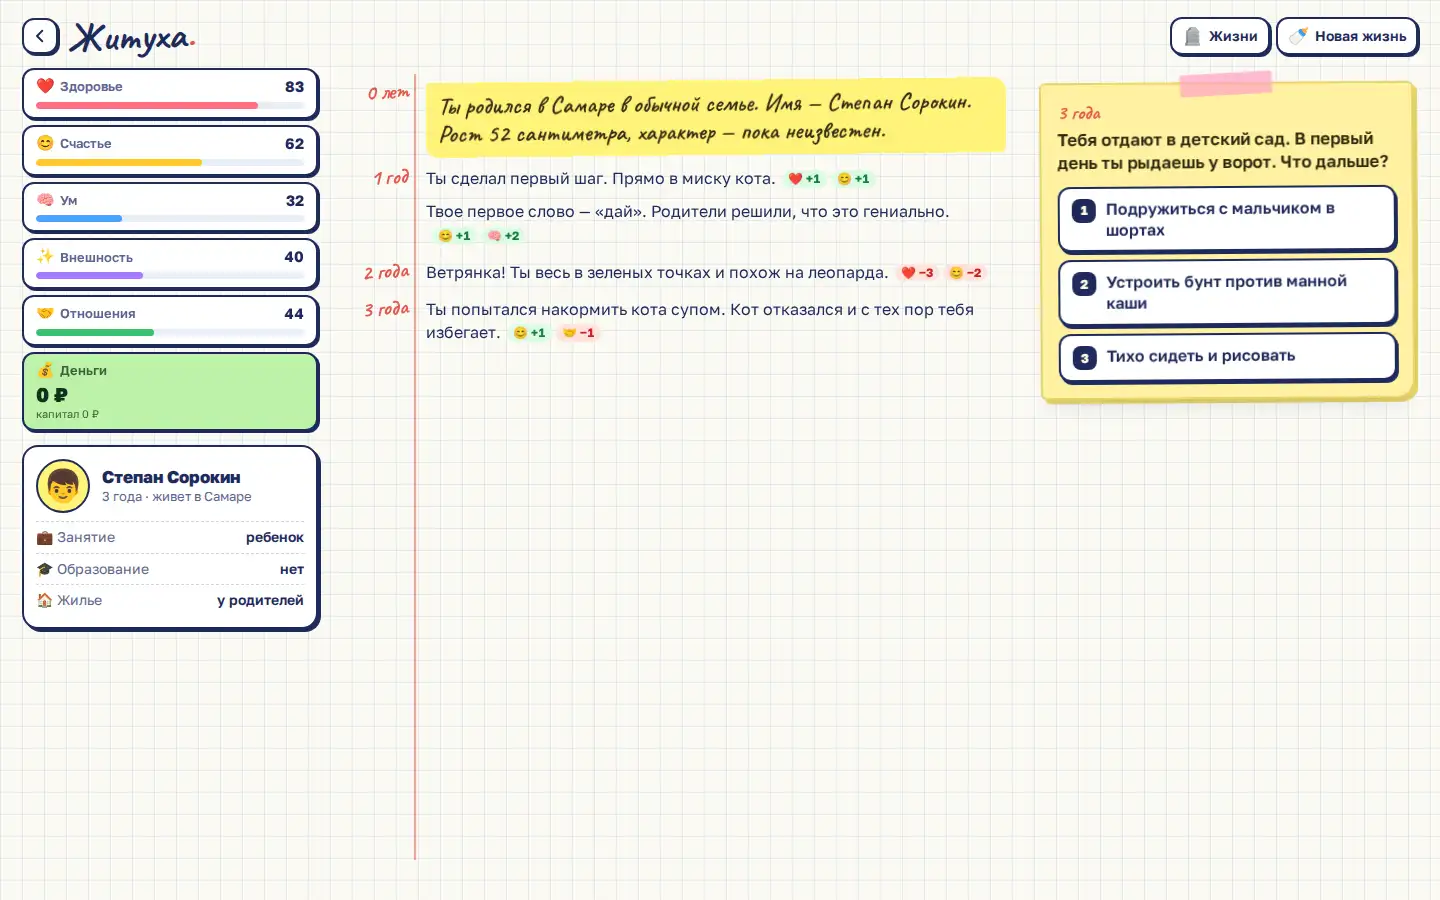
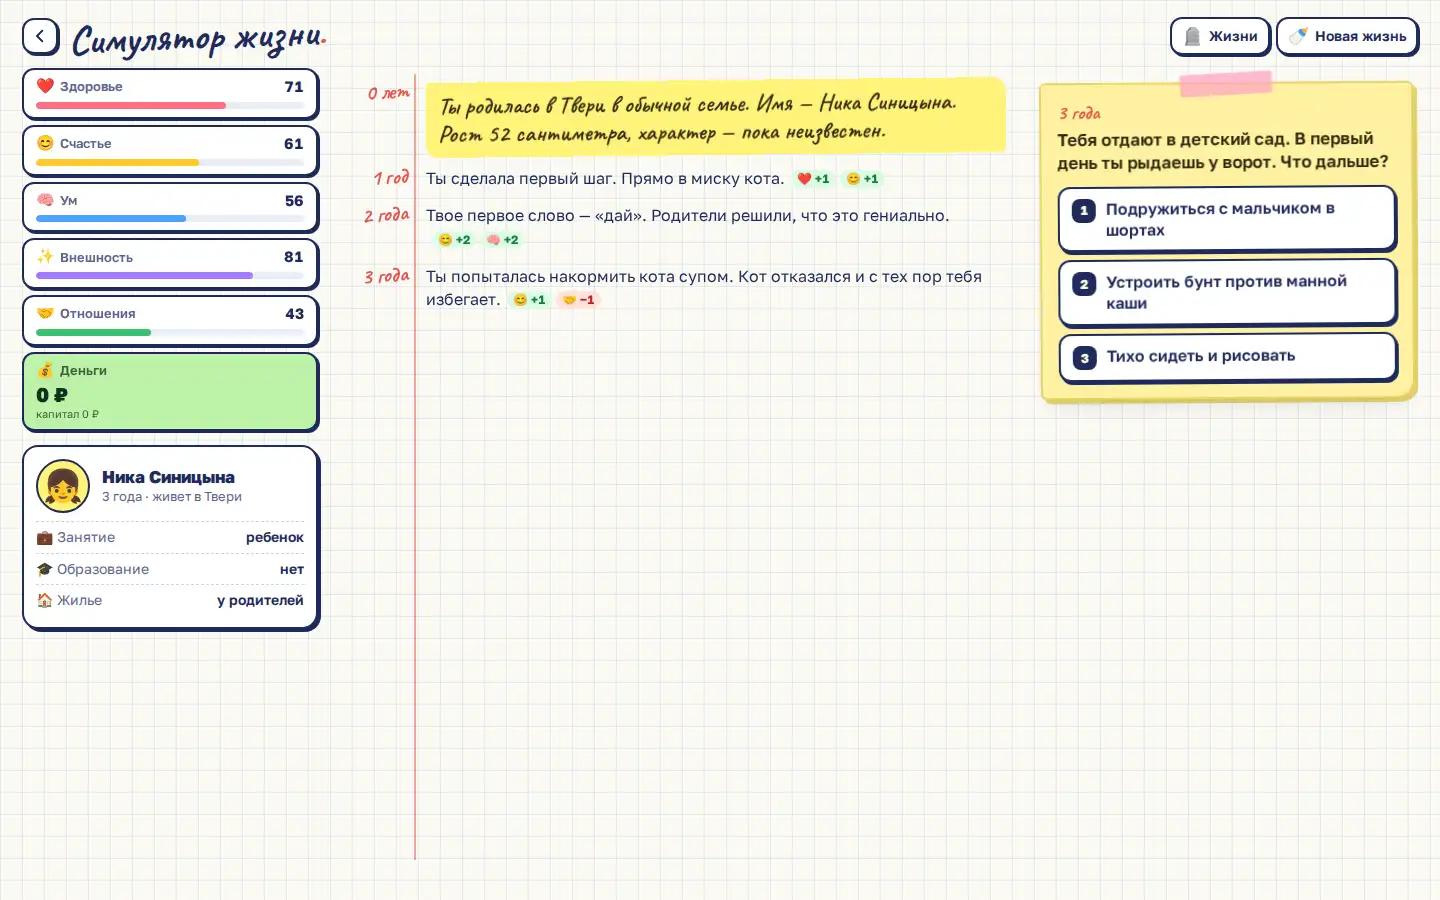
Rename kanban, invoice and life demos, new screenshots

diff --git a/demos/life/script.js b/demos/life/script.js
@@ -85,7 +85,7 @@ var ZH_DATA = {
     { id: "car", cat: "money", e: "🚗", t: "Машина", a: [18, 90], special: "car" },
     { id: "repay", cat: "money", e: "🧹", t: "Погасить кредиты", a: [18, 120], if: { debt: [1, 1e15], cash: [1000, 1e15] }, special: "repay" },
     { id: "lottery", cat: "money", e: "🎟", t: "Купить лотерейный билет", a: [18, 120], cost: 300, special: "lottery" },
-    { id: "crypto", cat: "money", e: "🪙", t: "Вложиться в крипту", a: [18, 80], if: { cash: [50000, 1e15], no: "crypto" }, special: "crypto" },
+    { id: "crypto", cat: "money", e: "🪙", t: "Купить криптовалюту", a: [18, 80], if: { cash: [50000, 1e15], no: "crypto" }, special: "crypto" },
 
     { id: "meet", cat: "love", e: "💘", t: "Знакомиться", a: [16, 95], if: { partner: "none" }, special: "meet" },
     { id: "date", cat: "love", e: "🌹", t: "Сходить на свидание", a: [16, 120], if: { partner: "any" }, cost: 5000, eff: { love: 10, happy: 4, cash: -5000 }, r: ["Кино, кафе, прогулка по набережной. {p} смеял<ся|ась> над твоими шутками. Даже над той про пингвина.", "{p} затащил<|а> тебя в караоке. Соседний столик аплодировал стоя, хотя, возможно, просто уходил."] },
@@ -1863,7 +1863,7 @@ if (typeof module !== "undefined") module.exports = ZH;
       h += row("👛", "Наличные", M(p.cash));
       if (p.dep) h += row("🏦", "Вклад", M(p.dep));
       if (p.stocks) h += row("📊", "Акции", M(p.stocks));
-      if (p.crypto) h += row("🪙", "Крипта", M(p.crypto));
+      if (p.crypto) h += row("🪙", "Криптовалюта", M(p.crypto));
       if (p.biz) h += row("🏪", "Бизнес", p.biz);
       if (p.homeValue) h += row("🏠", "Жилье", M(p.homeValue));
       p.loans.forEach(function (l) { h += '<div class="zh-row is-debt"><span class="zh-row__k">🧾 ' + esc(l.t) + " · " + Math.round(l.rate * 100) + '%</span><span class="zh-row__v">−' + esc(M(l.bal)) + "</span></div>"; });

diff --git a/demos/invoice/frame.html b/demos/invoice/frame.html
@@ -4,7 +4,7 @@
     <a class="inv__back" href="/docs/v2/ru/guides/demo/" title="К каталогу демо" aria-label="К каталогу демо"><i class="ph ph-arrow-left" aria-hidden="true"></i></a>
     <div class="inv__brand">
       <svg class="inv__mark" viewBox="0 0 32 32" aria-hidden="true"><rect x="3" y="3" width="26" height="26" rx="7" fill="currentColor"/><path d="M10 11h12M10 16h12M10 21h7" stroke="var(--inv-paper)" stroke-width="2.4" stroke-linecap="round"/><circle cx="22.5" cy="21.5" r="3.2" fill="var(--inv-accent)"/></svg>
-      <span class="inv__brand-name">Квиток</span>
+      <span class="inv__brand-name">Генератор счетов</span>
     </div>
     <button type="button" class="inv__btn inv__btn--ghost inv__only-narrow" data-act="drawer" title="Мои счета">
       <i class="ph ph-files inv__ico" aria-hidden="true"></i><span class="inv__btn-text">Счета</span><span class="inv__badge" data-count>0</span>
@@ -219,7 +219,7 @@
   <div class="inv__intro inv__intro--open" data-intro role="dialog" aria-modal="true" aria-labelledby="inv-intro-title">
     <div class="inv__intro-card">
       <svg class="inv__intro-mark" viewBox="0 0 32 32" aria-hidden="true"><rect x="3" y="3" width="26" height="26" rx="7" fill="currentColor"/><path d="M10 11h12M10 16h12M10 21h7" stroke="var(--inv-paper)" stroke-width="2.4" stroke-linecap="round"/><circle cx="22.5" cy="21.5" r="3.2" fill="var(--inv-accent)"/></svg>
-      <h1 class="inv__intro-title" id="inv-intro-title" data-op-bind='{"text":"page.title"}'>Квиток</h1>
+      <h1 class="inv__intro-title" id="inv-intro-title" data-op-bind='{"text":"page.title"}'>Генератор счетов</h1>
       <div class="inv__intro-text"><!-- onpress/content /--></div>
       <div class="inv__intro-acts">
         <a class="inv__btn inv__btn--ghost inv__btn--lg" href="/docs/v2/ru/guides/demo/" data-intro-back><i class="ph ph-arrow-left inv__ico" aria-hidden="true"></i>Назад</a>

diff --git a/demos/life/style.css b/demos/life/style.css
@@ -76,7 +76,7 @@ html.zh-on[data-zh-theme="dark"], html.zh-on[data-zh-theme="dark"] body { backgr
 .zh-who__ava { width: 30px; height: 30px; display: inline-flex; align-items: center; justify-content: center; font-family: var(--emoji); font-size: 20px; background: var(--hl-yellow); border-radius: 50%; }
 .zh-who__txt { display: flex; flex-direction: column; align-items: flex-start; min-width: 0; line-height: 1.1; }
 .zh-who__txt b { font-size: 14px; max-width: 110px; overflow: hidden; text-overflow: ellipsis; white-space: nowrap; }
-.zh-who__txt span { font-size: 12px; color: var(--ink-soft); }
+.zh-who__txt span { font-size: 12px; color: var(--ink-soft); white-space: nowrap; }
 .zh-top__tools { display: flex; gap: 6px; }
 .zh-top__btn { display: inline-flex; align-items: center; gap: 6px; height: 38px; padding: 0 10px; background: var(--card); border: 2px solid var(--card-edge); border-radius: 12px; box-shadow: 2px 2px 0 var(--card-edge); font-weight: 600; font-size: 14px; }
 .zh-top__btn span:first-child { font-family: var(--emoji); font-size: 17px; }
@@ -338,6 +338,10 @@ html.zh-on[data-zh-theme="dark"], html.zh-on[data-zh-theme="dark"] body { backgr
   .zh-toast { bottom: 30px; }
 }
 @media (max-width: 559px) {
+  .zh-top { gap: 8px; }
+  .zh-top__logo { font-size: 24px; white-space: normal; line-height: 0.9; max-width: 120px; }
+  .zh-who__txt b { display: none; }
+  .zh-top__who { padding-right: 8px; }
   .zh-stat__t { display: none; }
   .zh-stat__row { justify-content: space-between; }
   .zh-stat__e { font-size: 15px; }
@@ -350,7 +354,7 @@ html.zh-on[data-zh-theme="dark"], html.zh-on[data-zh-theme="dark"] body { backgr
   .zh-stat__fx { top: -9px; font-size: 11px; }
 }
 @media (max-width: 380px) {
-  .zh-top__logo { font-size: 27px; }
+  .zh-top__logo { font-size: 22px; }
   .zh-stat__t { font-size: 10px; }
 }
 @media (prefers-reduced-motion: reduce) {

diff --git a/demos/life/frame.html b/demos/life/frame.html
@@ -2,7 +2,7 @@
   <div class="zh__app" id="zhApp">
     <header class="zh-top">
       <a class="zh-top__back" href="/docs/v2/ru/guides/demo/" aria-label="Назад к каталогу демо" title="Назад к каталогу демо"><svg viewBox="0 0 24 24" fill="none" stroke="currentColor" stroke-width="2.6" stroke-linecap="round" stroke-linejoin="round"><path d="M15 5l-7 7 7 7"/></svg></a>
-      <div class="zh-top__logo">Житуха<span class="zh-top__dot">.</span></div>
+      <div class="zh-top__logo">Симулятор жизни<span class="zh-top__dot">.</span></div>
       <button class="zh-top__who" id="zhWho" type="button" aria-label="Профиль и деньги"></button>
       <div class="zh-top__tools">
         <button class="zh-top__btn" id="zhLivesBtn" type="button" title="Прожитые жизни"><span aria-hidden="true">🪦</span><span class="zh-top__label">Жизни</span></button>
@@ -59,7 +59,7 @@
   <div class="zh-over zh-over--intro is-open" id="zhIntro">
     <div class="zh-note zh-note--intro" role="dialog" aria-modal="true" aria-labelledby="zhIntroTitle">
       <div class="zh-note__tape"></div>
-      <h1 class="zh-note__h1" id="zhIntroTitle" data-op-bind='{"text":"page.title"}'>Житуха — симулятор жизни</h1>
+      <h1 class="zh-note__h1" id="zhIntroTitle" data-op-bind='{"text":"page.title"}'>Симулятор жизни</h1>
       <div class="zh-note__text"><!-- onpress/content /--></div>
       <div class="zh-note__actions">
         <a class="zh-btn zh-btn--ghost" href="/docs/v2/ru/guides/demo/">Назад</a>

diff --git a/demos/kanban/script.js b/demos/kanban/script.js
@@ -303,7 +303,7 @@
     var mark = el("span", "stk__mark"); mark.setAttribute("aria-hidden", "true");
     mark.innerHTML = "<i></i><i></i><i></i>";
     brand.appendChild(mark);
-    brand.appendChild(el("span", "stk__brand-name", "Стопка"));
+    brand.appendChild(el("span", "stk__brand-name", "Канбан-доска"));
     bar.appendChild(brand);
     var sw = el("label", "stk__search");
     sw.appendChild(icon("search"));

diff --git a/README.md b/README.md
@@ -20,16 +20,16 @@ Frame guide and API reference (in Russian):
 
 | Demo | What it is | Live page | Source |
 | --- | --- | --- | --- |
-| Stopka (kanban) | Trello-style board: columns, cards, labels, due dates, checklists, Markdown | [live](https://onpress.pro/docs/v2/ru/guides/demo/kanban/) | [demos/kanban](demos/kanban/) |
+| Kanban board | Trello-style board: columns, cards, labels, due dates, checklists, Markdown | [live](https://onpress.pro/docs/v2/ru/guides/demo/kanban/) | [demos/kanban](demos/kanban/) |
 | Zhmykh (image converter) | Squoosh-style batch converter to WebP, AVIF, JPG, PNG and ICO | [live](https://onpress.pro/docs/v2/ru/guides/demo/converter/) | [demos/converter](demos/converter/) |
 | Blob Drop | Physics puzzle game: merge drops, power-ups, undo, high scores | [live](https://onpress.pro/docs/v2/ru/guides/demo/game/) | [demos/game](demos/game/) |
 | Whiteboard | Miro-style Excalidraw board: sticky notes, dotted grid, PNG/SVG export | [live](https://onpress.pro/docs/v2/ru/guides/demo/whiteboard/) | [demos/whiteboard](demos/whiteboard/) |
 | Spreadsheet | Google Sheets-style spreadsheet: HyperFormula engine, several sheets, CSV and XLSX | [live](https://onpress.pro/docs/v2/ru/guides/demo/sheets/) | [demos/sheets](demos/sheets/) |
 | BX-808 (drum machine) | TR-808-style sequencer with synthesized sounds, bass line and WAV export | [live](https://onpress.pro/docs/v2/ru/guides/demo/beats/) | [demos/beats](demos/beats/) |
-| Kvitok (invoice generator) | Russian invoice form with live A4 preview, PDF, QR code and drafts | [live](https://onpress.pro/docs/v2/ru/guides/demo/invoice/) | [demos/invoice](demos/invoice/) |
+| Invoice generator | Russian invoice form with live A4 preview, PDF, QR code and drafts | [live](https://onpress.pro/docs/v2/ru/guides/demo/invoice/) | [demos/invoice](demos/invoice/) |
 | SKANTEKST (OCR) | Text from images in Russian and English with tesseract.js | [live](https://onpress.pro/docs/v2/ru/guides/demo/ocr/) | [demos/ocr](demos/ocr/) |
 | Puls (web analytics) | Analytics dashboard: KPIs, channels, UTM with ROMI, world map, funnel, cohorts, MRR | [live](https://onpress.pro/docs/v2/ru/guides/demo/analytics/) | [demos/analytics](demos/analytics/) |
-| Zhitukha (life simulator) | Text life simulator: diary by years, education, 18 professions, money, family, 141 events, achievements | [live](https://onpress.pro/docs/v2/ru/guides/demo/life/) | [demos/life](demos/life/) |
+| Life simulator | Text life simulator: diary by years, education, 18 professions, money, family, 141 events, achievements | [live](https://onpress.pro/docs/v2/ru/guides/demo/life/) | [demos/life](demos/life/) |
 | Mortgage calculator (embedded) | Calculator inside an article, inserted with `<!-- frame/demo-embed-mortgage /-->` | [live](https://onpress.pro/docs/v2/ru/guides/demo/embedded/) | [demos/embed-mortgage](demos/embed-mortgage/) |
 
 The app interfaces are in Russian, like the site they run on.

diff --git a/demos/invoice/page.md b/demos/invoice/page.md
@@ -1,5 +1,5 @@
 ---
-name: "Квиток — генератор счетов"
+name: "Генератор счетов"
 seo_title: "Генератор счетов на оплату онлайн — демо фрейма OnPress"
 seo_description: "Счет на оплату с реквизитами, НДС, суммой прописью и QR-кодом для банка за минуту. PDF и печать прямо в браузере, черновики и клиенты сохраняются у вас."
 url: "/invoice/"
@@ -7,6 +7,6 @@ status: "publish"
 frame: "demo-invoice"
 ---
 
-Квиток собирает счет на оплату по российской форме: реквизиты с проверкой ИНН, БИК и счета, НДС в том числе или сверху, сумма прописью и QR-код, который считывает приложение любого банка.
+Генератор собирает счет на оплату по российской форме: реквизиты с проверкой ИНН, БИК и счета, НДС в том числе или сверху, сумма прописью и QR-код, который считывает приложение любого банка.
 
 Готовый счет скачивается в PDF или отправляется на печать. Черновики, клиенты, логотип и печать хранятся только в вашем браузере.

diff --git a/demos/life/README.md b/demos/life/README.md
@@ -1,8 +1,8 @@
-# Zhitukha — life simulator
+# Life simulator
 
 A text life simulator: you live a whole life year by year, from birth to death, written as a diary in a school notebook. Every choice changes what comes next.
 
-![Zhitukha — life simulator](screenshot.webp)
+![Life simulator](screenshot.webp)
 
 Live page: https://onpress.pro/docs/v2/ru/guides/demo/life/
 
@@ -13,7 +13,7 @@ The interface is in Russian.
 - A life year by year from birth to death, shown as a handwritten diary
 - Education: university with 7 faculties, college, master's degree
 - 18 professions with career growth
-- Money: rent, mortgage, car, savings deposit, stocks, crypto, own business, credit card, bankruptcy
+- Money: rent, mortgage, car, savings deposit, stocks, buying cryptocurrency, own business, credit card, bankruptcy
 - Relationships: wedding, divorce, children, inheritance
 - Health and habits
 - Six stats: health, happiness, smarts, looks, relationships, money

diff --git a/demos/life/page.md b/demos/life/page.md
@@ -1,6 +1,6 @@
 ---
-name: "Житуха — симулятор жизни"
-seo_title: "Житуха — текстовый симулятор жизни онлайн, демо фрейма OnPress"
+name: "Симулятор жизни"
+seo_title: "Симулятор жизни онлайн: текстовая игра — демо фрейма OnPress"
 seo_description: "Проживите жизнь от рождения до старости: учеба, работа, ипотека, вклады, свадьбы, дети и сотня с лишним случайных событий. Каждое решение меняет судьбу, итог — эпитафия и достижения."
 url: "/life/"
 status: "publish"

diff --git a/demos/invoice/README.md b/demos/invoice/README.md
@@ -1,8 +1,8 @@
-# Kvitok — invoice generator
+# Invoice generator
 
 An invoice generator for Russian payment invoices: a form on the left and a live A4 sheet on the right.
 
-![Kvitok — invoice generator](screenshot.webp)
+![Invoice generator](screenshot.webp)
 
 Live page: https://onpress.pro/docs/v2/ru/guides/demo/invoice/
 

diff --git a/demos/kanban/README.md b/demos/kanban/README.md
@@ -1,8 +1,8 @@
-# Stopka — kanban board
+# Kanban board
 
 A Trello-style kanban board that runs on one page and keeps everything in the browser.
 
-![Stopka — kanban board](screenshot.webp)
+![Kanban board](screenshot.webp)
 
 Live page: https://onpress.pro/docs/v2/ru/guides/demo/kanban/
 
